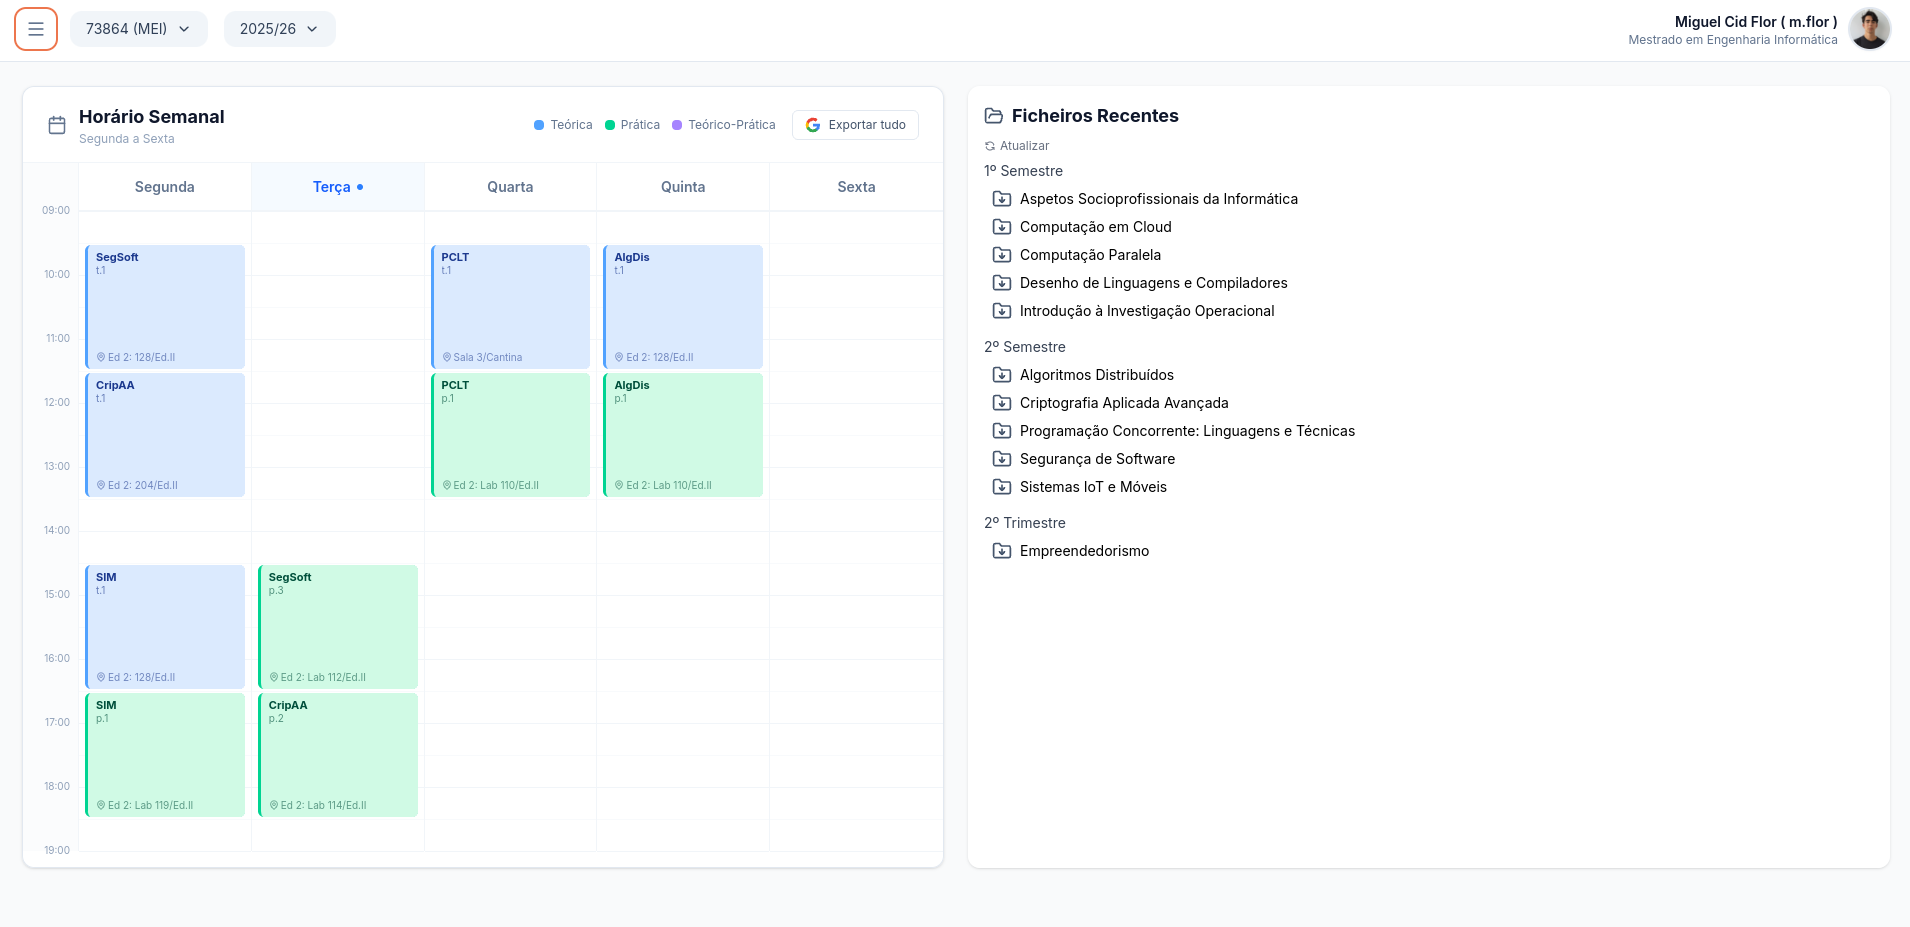
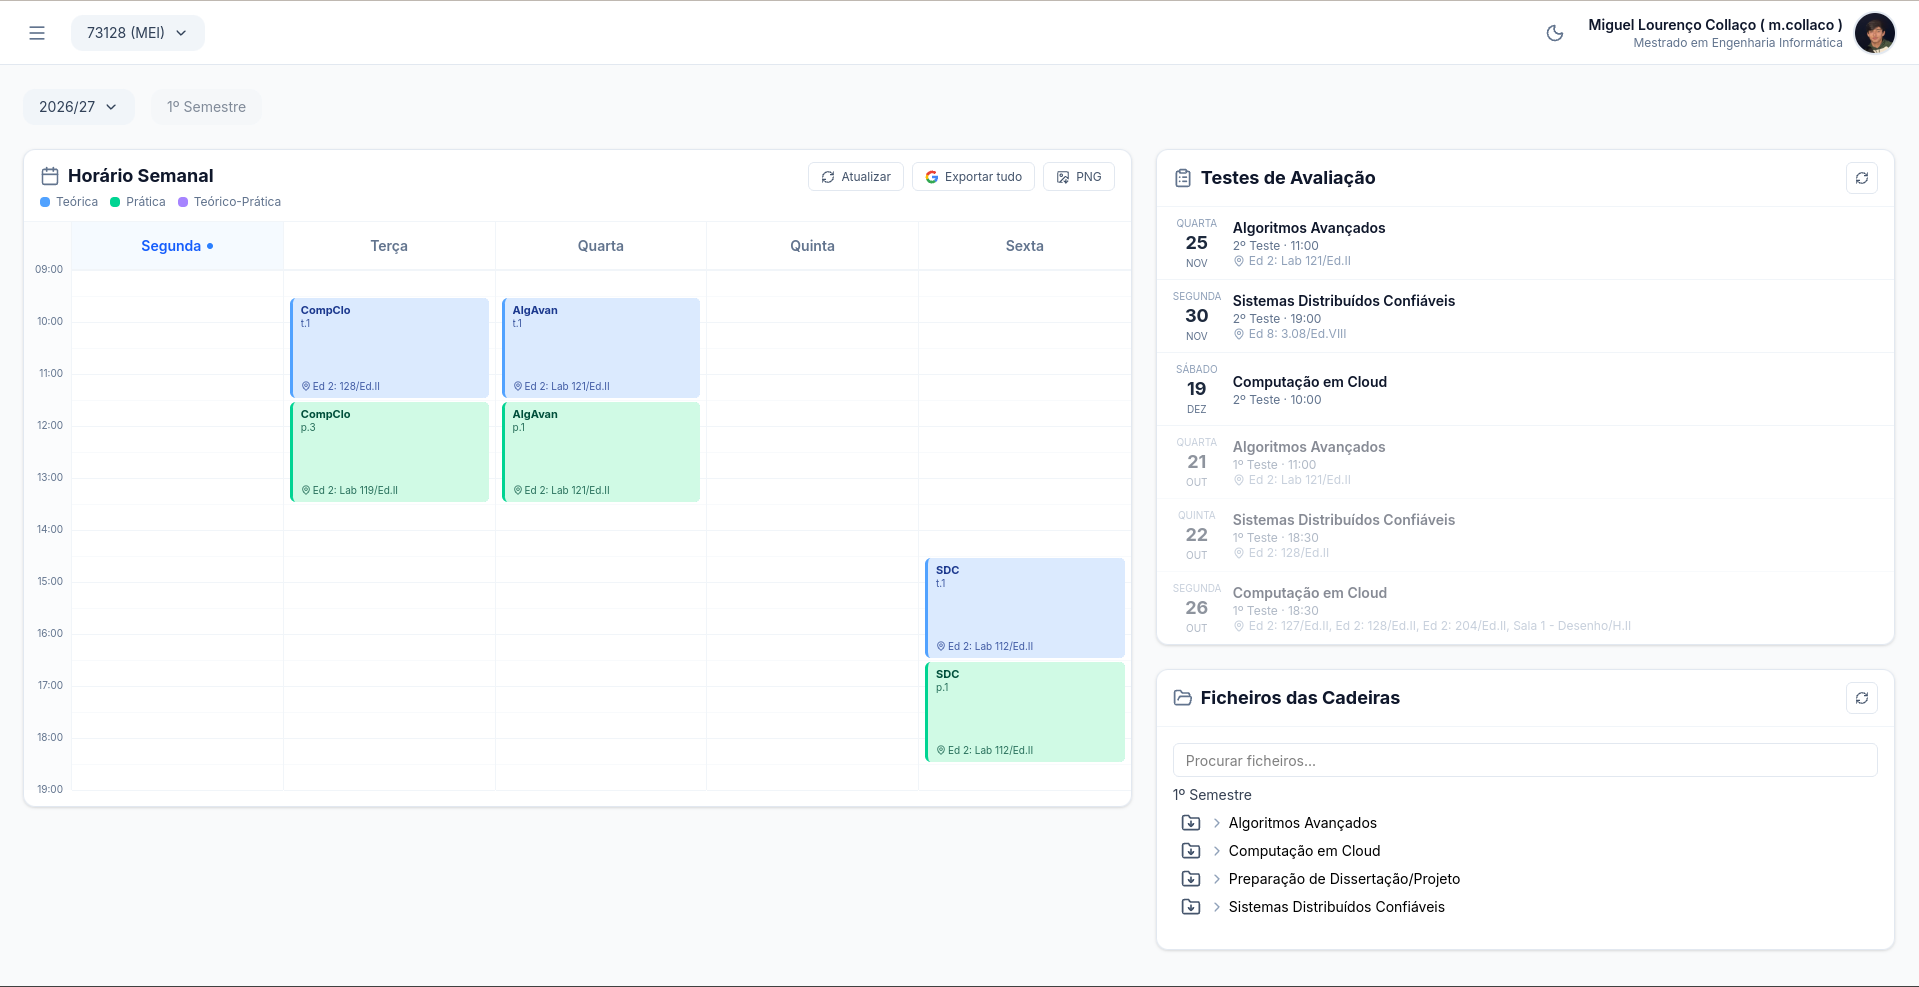
docs(readme): Correct setup steps and document current features
- Install the Vue app's own dependencies, require Node 20.19+/22.12+
  and link the Tauri system prerequisites
- Document file search, single-file downloads, PNG schedule export,
  evaluation tests, theme, remembered login and session re-login
- Describe the encrypted local cache and its per-page expiry instead
  of claiming no data is stored
- Update the project structure and scripts, and refresh the screenshot

diff --git a/README.md b/README.md
@@ -22,24 +22,31 @@
 ## ✨ Features
 
 ### **Course Materials**
-- Browse all your course files by semester/trimester
-- One-click download for all materials from a course
-- Automatic file organization
-- Fast and reliable downloads
+- Browse all your course files by semester/trimester, grouped by CLIP section
+- Search files within a course or across all your courses at once
+- See each file's date, size and uploader on hover
+- Download a single file, or every file from a course as one ZIP (organized into folders by file type)
 
 ### **Weekly Schedule**
 - Clean, color-coded weekly schedule view
 - Export individual classes to Google Calendar
 - Export entire schedule with one click
-- Automatic recurring event creation
+- Automatic recurring (weekly) event creation
+- Export the schedule as a PNG image
+
+### **Evaluation Tests**
+- See all of the current semester's evaluation tests right on the dashboard
+- Date, time, course and rooms for each test at a glance
+- Upcoming tests listed first, past ones greyed out at the bottom
+- Flags tests you still need to enroll in
 
 ### **Cache**
-- All requests are cache
-- The timeout is different for each url
-- The cache is stored encrypted
+- CLIP pages are cached locally so the app loads instantly
+- Each page type has its own expiry: profile and photo 7 days, schedule and tests 1 day, course files 10 hours
+- The cache is an encrypted SQLCipher database whose key is kept in your OS keyring
 
 ### **Fast & Native**
-- Native desktop application built with Rust
+- Desktop application built with Tauri, with a Rust backend
 - Lightning-fast performance
 - Cross-platform (Windows, macOS, Linux)
 - Minimal memory footprint
@@ -47,7 +54,11 @@
 ### **Secure**
 - Direct authentication with CLIP servers
 - No data stored externally
-- Session management for seamless access
+- Optional "remember me" saves your login in the OS keyring (Windows Credential Manager, macOS Keychain, Secret Service on Linux)
+- Automatically logs back in when the CLIP session expires
+
+### **Light & Dark Theme**
+- Switch between light and dark themes with accessible contrast
 
 ---
 
@@ -76,8 +87,9 @@ Grab the latest pre-built installer for your OS from the most recent release —
 
 #### Prerequisites
 
-- [Node.js](https://nodejs.org/) (v18 or higher)
+- [Node.js](https://nodejs.org/) (v20.19+ or v22.12+, required by Vite 8)
 - [Rust](https://www.rust-lang.org/) (latest stable)
+- The Tauri system dependencies for your OS (e.g. WebKitGTK on Linux): see the [Tauri prerequisites](https://tauri.app/start/prerequisites/)
 
 #### Installation
 
@@ -87,9 +99,10 @@ Grab the latest pre-built installer for your OS from the most recent release —
    cd FLIP
    ```
 
-2. **Install dependencies**
+2. **Install dependencies** (the root and the Vue app each have their own)
    ```bash
    npm install
+   cd vue-app && npm install && cd ..
    ```
 
 3. **Run in development mode**
@@ -113,12 +126,15 @@ FLIP/
 ├── vue-app/              # Vue 3 frontend application
 │   ├── src/
 │   │   ├── components/   # Reusable Vue components
-│   │   ├── views/        # Page components (Login, Dashboard)
+│   │   ├── composables/  # Shared state and logic (student, theme, toasts, queries)
+│   │   ├── views/        # Page components (Login, Dashboard, Files, AppLayout)
 │   │   ├── lib/          # Utilities and helpers
 │   │   └── router/       # Vue Router configuration
 │   └── dist/             # Production build output
 ├── src-tauri/            # Tauri backend (Rust)
-│   ├── src/              # Rust source code
+│   ├── src/              # Rust source code (CLIP session, scraping, cache)
+│   ├── config.json       # Runtime options (e.g. enable logging)
+│   ├── tauri.conf.json   # Tauri app configuration
 │   └── Cargo.toml        # Rust dependencies
 └── package.json          # Root scripts and dependencies
 ```
@@ -130,6 +146,7 @@ FLIP/
 CLIP is slow and requires too many clicks to access basic information. FLIP solves this by:
 
 - **Instant Access** - No more navigating through endless menus
+- **Everything in One Place** - Schedule, upcoming tests and course files on one dashboard
 - **One-Click Actions** - Download files or export schedules instantly
 - **Native Performance** - Desktop app built with Rust for maximum speed
 - **Modern UI** - Clean, intuitive interface with smooth animations
@@ -149,13 +166,17 @@ CLIP is slow and requires too many clicks to access basic information. FLIP solv
 npm run tauri:dev      # Run Tauri with Vue dev server
 
 # Production
-npm run tauri:build    # Build desktop app for your OS
+npm run tauri:build          # Build desktop app for your OS
+npm run tauri:build:windows  # Cross-compile a Windows build (x86_64-pc-windows-gnu, needs MinGW)
 
 # Vue only (without Tauri)
 cd vue-app
 npm run dev           # Run Vue dev server (port 1420)
-npm run build         # Build Vue app
+npm run build         # Type-check and build Vue app
+npm run lint          # Lint with ESLint (lint:fix to auto-fix)
 ```
+
+The Vue-only dev server shows the UI, but anything that talks to CLIP needs the Tauri backend.
 
 ---
 
@@ -175,7 +196,7 @@ Contributions are welcome! Feel free to:
 
 - **Not affiliated with NOVA FCT** - This is a student-made improvement project
 - **Credentials are secure** - Authentication happens directly with CLIP servers
-- **No data storage** - All data comes from CLIP in real-time
+- **No external storage** - All data comes from CLIP; it is only cached locally (encrypted) on your machine
 - **Use responsibly** - Don't overload CLIP servers
 
 ---
